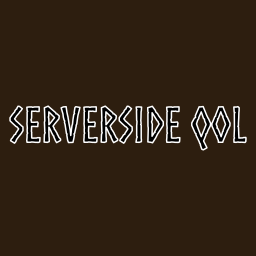
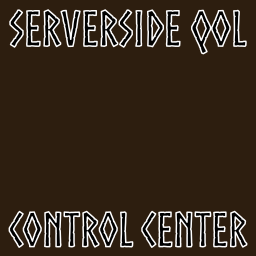
Track ZDO exclusivity and selective unregistering
Introduce explicit exclusivity tracking for ZDOs and switch from blanket UnregisterAll to UnregisterAllExcept. Bump package to 2.1.0-beta.3 and update icon assets.

- Directory.Build.props: version -> 2.1.0-beta.3
- icon.png / icon.svg: updated assets (ServerSide QoL / Control Center artwork)
- Processor.cs:
  - add using Mono.Cecil.Cil
  - on ClaimExclusive: set zdo.ExclusivityCheckDone = true and zdo.ExclusivelyClaimedBy = this, call zdo.UnregisterAllExcept(processor) instead of zdo.UnregisterAll()
  - remove prior check that blocked UnregisterAll when processor already in zdo.Processors
- ServersideQoLPlugin.cs:
  - when multiple processors present, mark first claimant in zdo.ExclusivelyClaimedBy, log error if a second claims exclusivity (message references ExclusivelyClaimedBy)
  - call UnregisterAllExcept using zdo.ExclusivelyClaimedBy
- ServersideQoLZDO wrapper:
  - add nullable Processor? ExclusivelyClaimedBy (initialized and copied on clone)
  - ExclusivityCheckDone remains initialized false
  - ReregisterAll returns early if ExclusivityCheckDone is true and ExclusivelyClaimedBy != null
  - cloning/copying preserves ExclusivelyClaimedBy

Result: more selective processor unregistration, prevents redundant re-registration, and provides explicit ownership tracking and clearer diagnostics.

diff --git a/ServersideQoL/ServersideQoLZDO.cs b/ServersideQoL/ServersideQoLZDO.cs
@@ -28,6 +28,7 @@ public sealed partial class ServersideQoLZDO(ZDO zdo) : IEquatable<ServersideQoL
       Processors = value?.EnabledProcessors ?? [];
       HasProcessors = Processors.Count is not 0;
       ExclusivityCheckDone = false;
+      ExclusivelyClaimedBy = default;
       _hasFields = default;
       ComponentFieldAccessors = default;
       ScheduleBefore = float.NaN;
@@ -65,6 +66,7 @@ public sealed partial class ServersideQoLZDO(ZDO zdo) : IEquatable<ServersideQoL
   internal bool HasProcessors { get; private set; }
   internal IReadOnlyList<Processor> Processors { get; private set; } = [];
   internal bool ExclusivityCheckDone { get; set; }
+  internal Processor? ExclusivelyClaimedBy { get; set; }
   bool? _hasFields;
   static readonly int __hasFieldsHash = ZNetView.CustomFieldsStr.GetStableHashCode();
   public bool HasFields => _hasFields ??= ZDO.GetBool(__hasFieldsHash);
@@ -233,6 +235,9 @@ public sealed partial class ServersideQoLZDO(ZDO zdo) : IEquatable<ServersideQoL
 
   public void ReregisterAll()
   {
+    if (ExclusivityCheckDone && ExclusivelyClaimedBy is not null)
+      return;
+
     Processors = PrefabInfo?.EnabledProcessors ?? [];
     HasProcessors = Processors.Count is not 0;
     ExclusivityCheckDone = false;
@@ -279,6 +284,7 @@ public sealed partial class ServersideQoLZDO(ZDO zdo) : IEquatable<ServersideQoL
       zdo.ServersideQoLZDO.Processors = Processors;
       zdo.ServersideQoLZDO.HasProcessors = HasProcessors;
       zdo.ServersideQoLZDO.ExclusivityCheckDone = ExclusivityCheckDone;
+      zdo.ServersideQoLZDO.ExclusivelyClaimedBy = ExclusivelyClaimedBy;
     }
     if (cloneDestroyedHandler)
       zdo.ServersideQoLZDO._destroyed = _destroyed;

diff --git a/ServersideQoL/ServersideQoLPlugin.cs b/ServersideQoL/ServersideQoLPlugin.cs
@@ -590,19 +590,18 @@ partial class ServersideQoLPlugin : ServersideQoLPluginBaseCore<ServersideQoLPlu
       var allProcessors = zdo.Processors;
       if (allProcessors.Count > 1)
       {
-        Processor? claimedExclusiveBy = null;
         foreach (var processor in allProcessors.Enumerate())
         {
           if (!processor.ClaimExclusive(zdo))
             continue;
-          if (claimedExclusiveBy is null)
-            claimedExclusiveBy = processor;
+          if (zdo.ExclusivelyClaimedBy is null)
+            zdo.ExclusivelyClaimedBy = processor;
           else if (Config.DiagnosticLogs.Value)
-            Logger.LogError(Invariant($"ZDO {zdo.PrefabInfo?.PrefabName} claimed exclusively by {processor.GetType().Name} while already claimed by {claimedExclusiveBy.GetType().Name}"));
+            Logger.LogError(Invariant($"ZDO {zdo.PrefabInfo?.PrefabName} claimed exclusively by {processor.GetType().Name} while already claimed by {zdo.ExclusivelyClaimedBy.GetType().Name}"));
         }
 
-        if (claimedExclusiveBy is not null)
-          zdo.UnregisterAllExcept(claimedExclusiveBy);
+        if (zdo.ExclusivelyClaimedBy is not null)
+          zdo.UnregisterAllExcept(zdo.ExclusivelyClaimedBy);
       }
     }
 

diff --git a/ServersideQoL/Processor.cs b/ServersideQoL/Processor.cs
@@ -1,4 +1,5 @@
-using ServersideQoL.Utilities;
+using Mono.Cecil.Cil;
+using ServersideQoL.Utilities;
 using System.Diagnostics;
 using System.Reflection;
 using System.Runtime.CompilerServices;
@@ -158,8 +159,12 @@ public abstract class Processor
         {
           processor.PlacedObjects.Add(zdo);
           zdo.Destroyed += processor.OnPlacedObjectDestroyed;
-          if (processor.ClaimExclusive(zdo) && !zdo.Processors.Contains(processor))
-            zdo.UnregisterAll();
+          if (processor.ClaimExclusive(zdo))
+          {
+            zdo.ExclusivityCheckDone = true;
+            zdo.ExclusivelyClaimedBy = processor;
+            zdo.UnregisterAllExcept(processor);
+          }
         }
       }
     }
@@ -352,8 +357,12 @@ public abstract class Processor
     PlacedObjects.Add(zdo);
     zdo.Destroyed += OnPlacedObjectDestroyed;
 
-    if (ClaimExclusive(zdo) && !zdo.Processors.Contains(this))
-      zdo.UnregisterAll();
+    if (ClaimExclusive(zdo))
+    {
+      zdo.ExclusivityCheckDone = true;
+      zdo.ExclusivelyClaimedBy = this;
+      zdo.UnregisterAllExcept(this);
+    }
     return zdo;
   }
 
